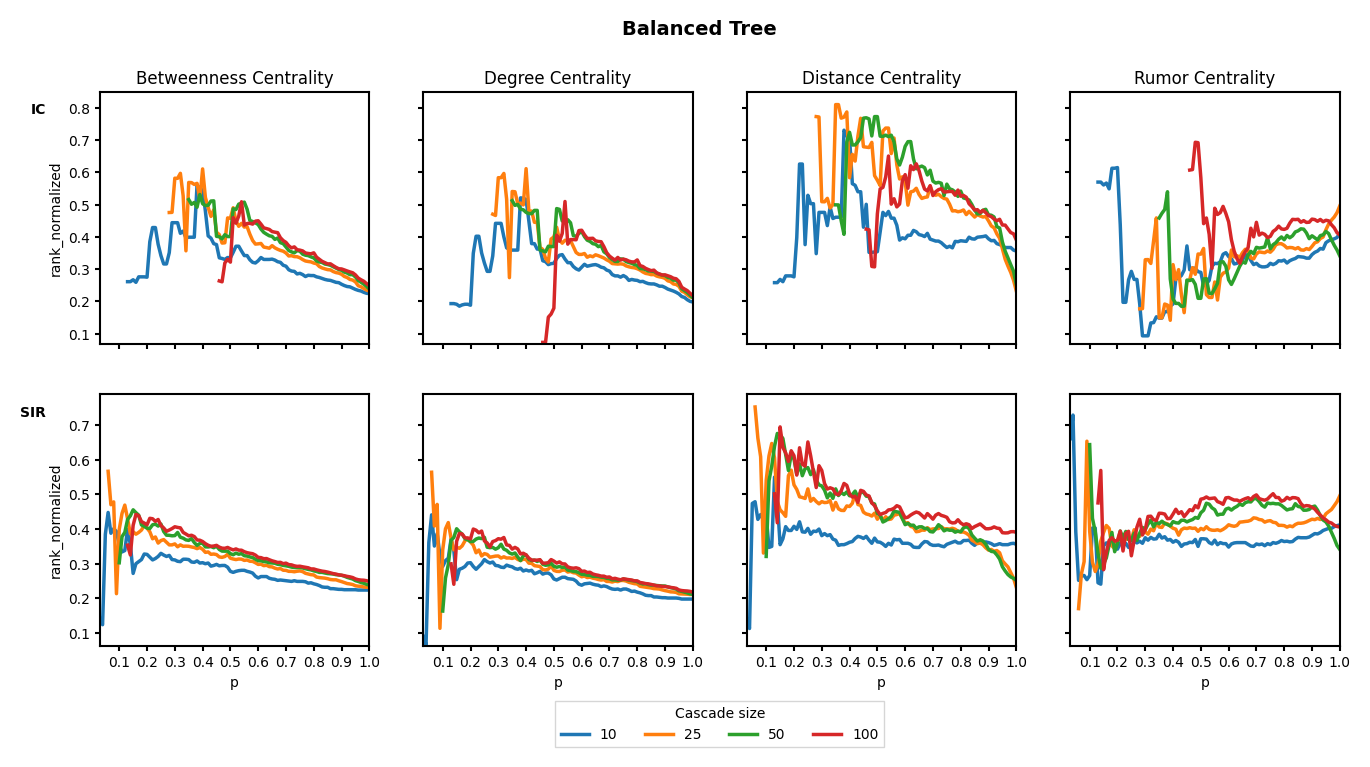
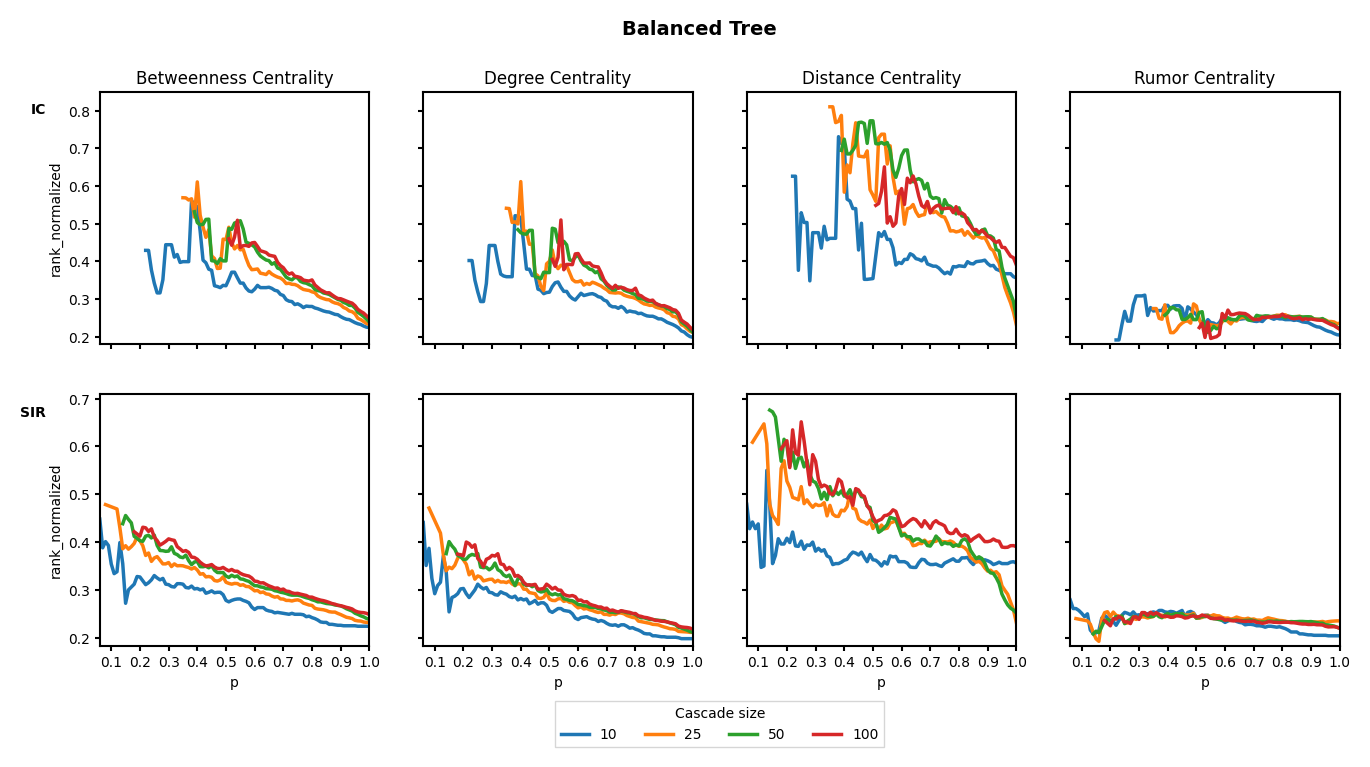
fix rumor

diff --git a/src/patient_zero/experiments/playground.py b/src/patient_zero/experiments/playground.py
@@ -1,22 +1,50 @@
 import networkx as nx
 import matplotlib.pyplot as plt
-from patient_zero.networks import create_k_regular_graph
+from patient_zero.networks import create_balanced_tree_graph
 from patient_zero.models import ic
 from patient_zero.networks.utils import get_random_node
-from patient_zero.experiments.centrality import distance_centrality
+from patient_zero.experiments.centrality import distance_centrality, rumor_centrality
 
 # Graph
+edges = [
+    (0, 1),
+    (0, 2),
+    (1, 3),
+    (1, 4),
+    (2, 5)
+]
+
+# Create the graph
+G = nx.Graph()
+G.add_edges_from(edges)
+
+# Optional: check the structure
+print("Nodes:", G.nodes())
+print("Edges:", G.edges())
+
+# Draw the tree (requires matplotlib)
+import matplotlib.pyplot as plt
+
+pos = nx.spring_layout(G, seed=42)
+nx.draw(G, pos, with_labels=True, node_color='skyblue', node_size=800, edge_color='gray')
+plt.show()
+
+scores_new = rumor_centrality(G)
+print("Rumor centrality (new):")
+for node, score in scores_new.items():
+    print(node, score)
+
 nodes = 1000
 degree = 3
 graph_seed = 42
 
-p_infect = 0.43
-max_size = 100
+p_infect = 0.5
+max_size = 500
 model_seed = 315
 
 patien_zero_seed = 119
 
-G = create_k_regular_graph(nodes, degree, graph_seed)
+G = create_balanced_tree_graph(3, 6)
 print(G)
 
 # Model
@@ -38,17 +66,17 @@ path_lengths = nx.single_source_shortest_path_length(cascade, patient_zero)
 
 #print(f"cascade={cascade}, cm=degree p={p_infect}, guess={guess}, patient_zero={patient_zero} diff={diff}")
 
-distance_result = distance_centrality(cascade)
-guess = max(distance_result, key=distance_result.get)
-diff = path_lengths.get(guess)
-
-print(f"cascade={cascade}, cm=distance p={p_infect}, guess={guess}, patient_zero={patient_zero} diff={diff}")
-
-#rumor_result = rumor_centrality(cascade)
-#guess = max(rumor_result, key=rumor_result.get)
+#distance_result = distance_centrality(cascade)
+#guess = max(distance_result, key=distance_result.get)
 #diff = path_lengths.get(guess)
 
-#print(f"cascade={cascade}, cm=rumor p={p_infect}, guess={guess}, patient_zero={patient_zero} diff={diff}")
+#print(f"cascade={cascade}, cm=distance p={p_infect}, guess={guess}, patient_zero={patient_zero} diff={diff}")
+
+rumor_result = rumor_centrality(cascade)
+guess = max(rumor_result, key=rumor_result.get)
+diff = path_lengths.get(guess)
+
+print(f"cascade={cascade}, cm=rumor p={p_infect}, guess={guess}, patient_zero={patient_zero} diff={diff}")
 
 path_nodes = nx.shortest_path(cascade, source=guess, target=patient_zero)
 node_colors = [

diff --git a/src/patient_zero/experiments/centrality.py b/src/patient_zero/experiments/centrality.py
@@ -67,25 +67,17 @@ def rumor_centrality(cascade: nx.Graph) -> dict[int, float]:
     is_tree_graph = nx.is_tree(cascade)
     for root in cascade.nodes: # Loops through every node in the cascade and calculates the rumor score for that node.
         # Create BFS tree rooted at the candidate node
-        if is_tree_graph: # No need to compute BFS tree for general trees.
-            tree_to_use = cascade
-        else:
-            tree_to_use = nx.bfs_tree(cascade, root)
+        bfs_tree = nx.bfs_tree(cascade, root)
 
         # Compute subtree sizes
         subtree = {}
         log_prod = {}
         # Uses Depth-First-Search on the node with the BFS tree to calculate subtree sizes and log_prod via message passing.
-        compute_subtree_sizes(tree_to_use, root, None, subtree, log_prod)
+        compute_subtree_sizes(bfs_tree, root, None, subtree, log_prod)
 
         # math.lgamma(n+1) = log(n!). log(A/B) is the same as log(A) - log(B)
         scores = {}
         scores[root] = math.lgamma(n + 1) - log_prod[root] # or just -log_prod[root]
-
-        if is_tree_graph:
-            # Propagate scores down the tree
-            propagate_scores(tree_to_use, root, None, subtree, scores, n)
-            return scores # no need to run dfs mulitple times for general trees
 
         # Store the score of the root
         all_scores[root] = scores[root] # Just compare rumor centralities as log form to avoid overflow.
